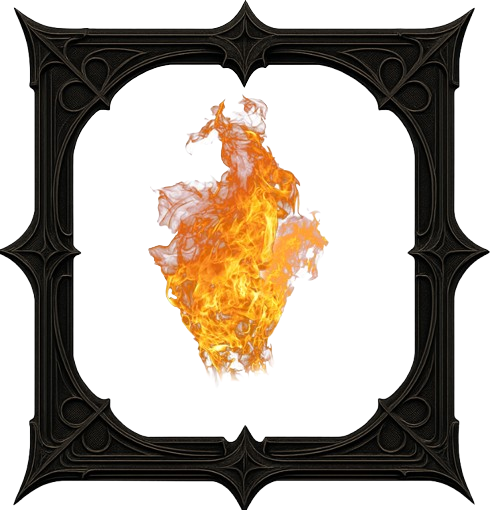
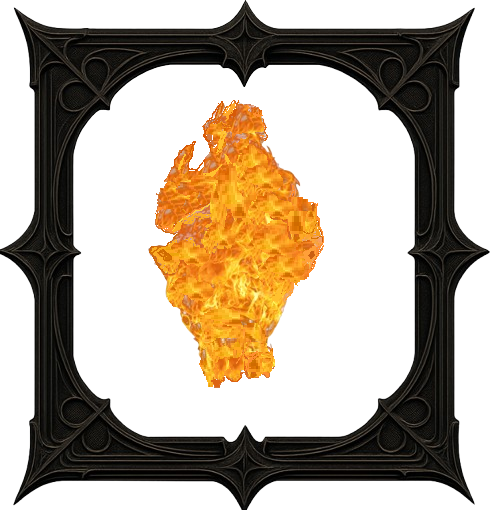
Added animation
Added cooldown animation

Changed region(s): [[0.3061, 0.1765, 0.6735, 0.6176], [0.398, 0.5882, 0.5816, 0.7647]]

diff --git a/frontend/src/pages/tempug.jsx b/frontend/src/pages/tempug.jsx
@@ -1,18 +1,139 @@
-import React from "react";
+import React, { useRef, useState } from "react";
 import styles from "../styles/tempupgrades.module.css";
 import { base_url } from "../../config";
 
+function TempUpgrade({ img, name, effectClass, description }) {
+  const canvasRef = useRef(null);
+  const [animating, setAnimating] = useState(false);
+
+  const startAnimation = () => {
+    setAnimating(true);
+    let start = null;
+    const duration = 1200; // ms
+
+    function animate(ts) {
+      if (!start) start = ts;
+      const progress = Math.min((ts - start) / duration, 1);
+      const degrees = 360 * progress;
+      const canvas = canvasRef.current;
+      const ctx = canvas.getContext("2d");
+      const size = canvas.width;
+
+      ctx.clearRect(0, 0, size, size);
+      ctx.save();
+      ctx.translate(size / 2, size / 2);
+      ctx.rotate(-Math.PI / 2);
+      ctx.beginPath();
+      ctx.moveTo(0, 0);
+      ctx.arc(0, 0, size / 2, 0, (degrees * Math.PI) / 180);
+      ctx.closePath();
+      ctx.fillStyle = "rgba(255,140,0,0.3)";
+      ctx.fill();
+      ctx.restore();
+
+      if (progress < 1) {
+        requestAnimationFrame(animate);
+      } else {
+        setAnimating(false);
+        ctx.clearRect(0, 0, size, size);
+      }
+    }
+
+    requestAnimationFrame(animate);
+  };
+
+  return (
+    <li className={styles.upgradeItem} style={{ position: "relative" }}>
+      <div
+        style={{
+          position: "relative",
+          width: 128,
+          height: 128,
+          margin: "0 auto",
+        }}
+      >
+        <img
+          src={`${base_url}/${img}`}
+          alt={name}
+          className={`${styles.upgradeImg} ${effectClass || ""}`}
+          width={128}
+          height={128}
+          onClick={startAnimation}
+          style={{ cursor: "pointer" }}
+        />
+        <canvas
+          ref={canvasRef}
+          width={128}
+          height={128}
+          style={{
+            position: "absolute",
+            left: 0,
+            top: 0,
+            pointerEvents: "none",
+          }}
+        />
+      </div>
+      <h3 className={styles.upgradeName}>{name}</h3>
+      <p className={styles.upgradeDesc}>{description}</p>
+    </li>
+  );
+}
+
 const upgrades = [
-  { name: "Fireknifev2", description: "Fireknife", img: "Fireknifev2.png" },
-  { name: "UGF", description: "Upgrade UGF", img: "Ugf.png" },
-  { name: "TGF", description: "Upgrade TGF", img: "Tgf.png" },
-  { name: "FST", description: "Upgrade FST", img: "Fst.png" },
-  { name: "DST", description: "Upgrade DST", img: "Dst.png" },
-  { name: "DGF", description: "Upgrade DGF", img: "Dgf.png" },
-  { name: "DFE", description: "Upgrade DFE", img: "Dfe.png" },
-  { name: "CLS", description: "Upgrade CLS", img: "Cls.png" },
-  { name: "Rne", description: "Rune Upgrade", img: "Rne.png" },
-  
+  {
+    name: "Fireknifev2",
+    description: "Fireknife",
+    img: "Fireknifev2.png",
+    effectClass: styles.fireknife,
+  },
+  {
+    name: "UGF",
+    description: "Upgrade UGF",
+    img: "Ugf.png",
+    effectClass: styles.ugf,
+  },
+  {
+    name: "TGF",
+    description: "Upgrade TGF",
+    img: "Tgf.png",
+    effectClass: styles.tgf,
+  },
+  {
+    name: "FST",
+    description: "Upgrade FST",
+    img: "Fst.png",
+    effectClass: styles.fst,
+  },
+  {
+    name: "DST",
+    description: "Upgrade DST",
+    img: "Dst.png",
+    effectClass: styles.dst,
+  },
+  {
+    name: "DGF",
+    description: "Upgrade DGF",
+    img: "Dgf.png",
+    effectClass: styles.dgf,
+  },
+  {
+    name: "DFE",
+    description: "Upgrade DFE",
+    img: "Dfe.png",
+    effectClass: styles.dfe,
+  },
+  {
+    name: "CLS",
+    description: "Upgrade CLS",
+    img: "Cls.png",
+    effectClass: styles.cls,
+  },
+  {
+    name: "Rne",
+    description: "Rune Upgrade",
+    img: "Rne.png",
+    effectClass: styles.rne,
+  },
 ];
 
 function TempUpgrades() {
@@ -21,18 +142,7 @@ function TempUpgrades() {
       <h2 className={styles.heading}>Temp Upgrades</h2>
       <ul className={styles.upgradeList}>
         {upgrades.map((upg, idx) => (
-          <li key={idx} className={styles.upgradeItem}>
-            <img
-              src={`${base_url}/${upg.img}`}
-              alt={upg.name}
-              className={styles.upgradeImg}
-              width={64}
-              height={64}
-              style={{ marginBottom: "12px" }}
-            />
-            <h3 className={styles.upgradeName}>{upg.name}</h3>
-            <p className={styles.upgradeDesc}>{upg.description}</p>
-          </li>
+          <TempUpgrade key={idx} {...upg} />
         ))}
       </ul>
     </div>

diff --git a/frontend/src/styles/tempupgrades.module.css b/frontend/src/styles/tempupgrades.module.css
@@ -3,6 +3,8 @@
   background: #222;
   min-height: 100vh;
   padding: 40px;
+  max-width: 1200px;
+  margin: 0 auto;
 }
 
 .heading {
@@ -34,8 +36,10 @@
 .upgradeImg {
   display: block;
   margin: 0 auto 8px auto;
-  width: 692px;
-  height: 692px;
+  width: 192px;
+  height: 192px;
+  max-width: 100%;
+  max-height: 100%;
   object-fit: cover;
   background: none;
   border-radius: 0;
@@ -47,4 +51,32 @@
   font-size: 1.3rem;
   font-weight: 600;
   color: #ffd700;
+}
+
+.fireknife {
+  filter: drop-shadow(0 0 10px orange) drop-shadow(0 0 20px red);
+}
+.ugf {
+  filter: drop-shadow(0 0 10px #4caf50);
+}
+.tgf {
+  filter: drop-shadow(0 0 10px #2196f3);
+}
+.fst {
+  filter: drop-shadow(0 0 10px #ffeb3b);
+}
+.dst {
+  filter: drop-shadow(0 0 10px #9c27b0);
+}
+.dgf {
+  filter: drop-shadow(0 0 10px #e91e63);
+}
+.dfe {
+  filter: drop-shadow(0 0 10px #00bcd4);
+}
+.cls {
+  filter: drop-shadow(0 0 10px #fff);
+}
+.rne {
+  filter: drop-shadow(0 0 10px #ff9800);
 }
